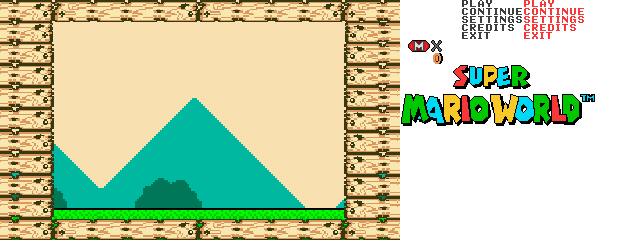
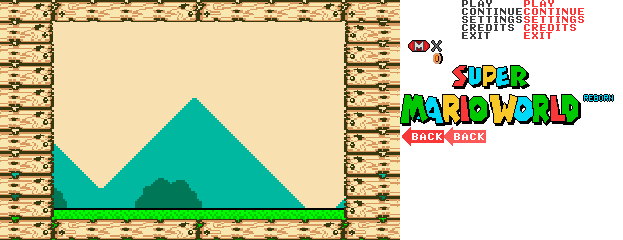
sample credits and back button

Changed region(s): [[0.6404, 0.2625, 1.0, 0.6125]]

diff --git a/Project/Motor2D/j1Gui.cpp b/Project/Motor2D/j1Gui.cpp
@@ -50,16 +50,22 @@ bool j1Gui::Start()
 	atlas = App->tex->Load(atlas_file_name.GetString());
 	App->audio->PlayMusic("audio/title_theme.ogg");
 
-	CreateImage(0, 0, { 0,0,400,240 });//main screen
-	CreateButton(185, 120, { 400, 0, 30, 7 }, { 462, 0, 30, 7 }, { 524, 0, 30, 7 }, PLAY, (j1Module*)App->gui);//play
-	CreateButton(169, 135, { 400, 8, 60, 7 }, { 462, 8, 60, 7 }, { 524, 8, 60, 7 }, CONTINUE, (j1Module*)App->scene);//continue
-	CreateButton(169, 150, { 400, 16, 60, 7 }, { 462, 16, 60, 7 }, { 524, 16, 60, 7 }, SETTINGS, (j1Module*)App->gui);//settings
-	CreateButton(173, 165, { 400, 24, 52, 7 }, { 462, 24, 52, 7 }, { 524, 24, 52, 7 }, CREDITS, (j1Module*)App->gui);//credits
-	CreateButton(186, 180, { 400, 32, 28, 7 }, { 462, 32, 28, 7 }, { 524, 32, 28, 7 }, EXIT, (j1Module*)App->scene);//exit
+	//main menu
+	CreateImage(0, 0, { 0,0,400,240 }, OTHER);//main screen
+	CreateImage(105, 35, { 400, 65, 214, 61 }, MAINMENU);//super mario world
+	CreateButton(185, 120, { 400, 0, 30, 7 }, { 462, 0, 30, 7 }, { 524, 0, 30, 7 }, PLAY, MAINMENU, (j1Module*)App->gui);//play
+	CreateButton(169, 135, { 400, 8, 60, 7 }, { 462, 8, 60, 7 }, { 524, 8, 60, 7 }, CONTINUE, MAINMENU, (j1Module*)App->scene);//continue
+	CreateButton(169, 150, { 400, 16, 60, 7 }, { 462, 16, 60, 7 }, { 524, 16, 60, 7 }, SETTINGS, MAINMENU, (j1Module*)App->gui);//settings
+	CreateButton(173, 165, { 400, 24, 52, 7 }, { 462, 24, 52, 7 }, { 524, 24, 52, 7 }, CREDITS, MAINMENU, (j1Module*)App->gui);//credits
+	CreateButton(186, 180, { 400, 32, 28, 7 }, { 462, 32, 28, 7 }, { 524, 32, 28, 7 }, EXIT, MAINMENU, (j1Module*)App->scene);//exit
 
-	//text
-
-	CreateText(60, 40, "I DID IT LOL", { 50, 50, 255, 255 }, App->fonts->default);
+	//credits menu
+	CreateButton(288, 32, { 400, 127, 44, 19 }, { 444, 127, 44, 19 }, { 444, 127, 44, 19 }, BACK, CREDITSMENU, (j1Module*)App->gui);//credditsback
+	CreateText(60, 40, "LOOK AT THESE CREDITS", { 50, 50, 255, 255 }, App->fonts->default, CREDITSMENU);
+	CreateText(60, 55, "WOW SUCH CREDITS", { 50, 50, 255, 255 }, App->fonts->default, CREDITSMENU);
+	CreateText(60, 70, "AMAZING CREDITS", { 50, 50, 255, 255 }, App->fonts->default, CREDITSMENU);
+	CreateText(60, 85, "UNBELIEVEABLE CREDITS", { 50, 50, 255, 255 }, App->fonts->default, CREDITSMENU);
+	CreateText(60, 100, "even  with  lowercase  wow", { 50, 50, 255, 255 }, App->fonts->default, CREDITSMENU);
 
 	return true;
 }
@@ -114,30 +120,30 @@ SDL_Texture* j1Gui::GetAtlas() const
 	return atlas;
 }
 
-GuiElement* j1Gui::CreateImage(int x, int y, SDL_Rect rect)
+GuiElement* j1Gui::CreateImage(int x, int y, SDL_Rect rect, menu_type mtype)
 {
 	iPoint position = { x,y };
-	GuiElement* item = new GuiImage(position, rect);
+	GuiElement* item = new GuiImage(position, rect, mtype);
 
 	elements.add(item);
 
 	return item;
 }
 
-GuiElement* j1Gui::CreateButton(int x, int y, SDL_Rect rect, SDL_Rect mover, SDL_Rect pressed, button_type btype, j1Module* callback)
+GuiElement* j1Gui::CreateButton(int x, int y, SDL_Rect rect, SDL_Rect mover, SDL_Rect pressed, button_type btype, menu_type mtype, j1Module* callback)
 {
 	iPoint position = { x,y };
-	GuiElement* item = new GuiButton(position, rect, mover, pressed, btype, callback);
+	GuiElement* item = new GuiButton(position, rect, mover, pressed, btype, mtype, callback);
 
 	elements.add(item);
 
 	return item;
 }
 
-GuiElement* j1Gui::CreateText(int x, int y, char* string, SDL_Color color, _TTF_Font* font)
+GuiElement* j1Gui::CreateText(int x, int y, char* string, SDL_Color color, _TTF_Font* font, menu_type mtype)
 {
 	iPoint position = { x,y };
-	GuiElement* item = new GuiText(position, string, color, font);
+	GuiElement* item = new GuiText(position, string, color, font, mtype);
 
 	elements.add(item);
 
@@ -204,13 +210,13 @@ bool j1Gui::GuiTrigger(GuiElement* element)
 		p2List_item<GuiElement*>* item = elements.start;
 		while (item != NULL)
 		{
-			if (item->data->etype == BUTTON)
+			if (item->data->mtype != SETTINGSMENU)
 			{
-				GuiButton* button2 = (GuiButton*)item->data;
-				if (button2->btype == PLAY || button2->btype == CONTINUE || button2->btype == SETTINGS || button2->btype == CREDITS || button2->btype == EXIT)
-				{
-					button2->active = false;
-				}
+				item->data->active = false;
+			}
+			else if (item->data->mtype == SETTINGSMENU)
+			{
+				item->data->active = true;
 			}
 			item = item->next;
 		}
@@ -223,15 +229,41 @@ bool j1Gui::GuiTrigger(GuiElement* element)
 		p2List_item<GuiElement*>* item = elements.start;
 		while (item != NULL)
 		{
-			if (item->data->etype == BUTTON)
+			if (item->data->mtype != CREDITSMENU && item->data->mtype != OTHER)
 			{
-				GuiButton* button2 = (GuiButton*)item->data;
-				if (button2->btype == PLAY || button2->btype == CONTINUE || button2->btype == SETTINGS || button2->btype == CREDITS || button2->btype == EXIT)
-				{
-					button2->active = false;
-				}
+				item->data->active = false;
+			}
+			else if (item->data->mtype == CREDITSMENU)
+			{
+				item->data->active = true;
 			}
 			item = item->next;
+		}
+
+		break;
+	}
+
+	case BACK:
+	{
+		switch (button->mtype)
+		{
+		case CREDITSMENU:
+		{
+			p2List_item<GuiElement*>* item = elements.start;
+			while (item != NULL)
+			{
+				if (item->data->mtype == MAINMENU || item->data->mtype == OTHER)
+				{
+					item->data->active = true;
+				}
+				else if (item->data->mtype == CREDITSMENU)
+				{
+					item->data->active = false;
+				}
+				item = item->next;
+			}
+			break;
+		}
 		}
 
 		break;

diff --git a/Project/Motor2D/j1Gui.h b/Project/Motor2D/j1Gui.h
@@ -10,6 +10,7 @@
 
 struct SDL_Rect;
 struct SDL_Texture;
+enum menu_type;
 class GuiElement;
 
 enum button_type
@@ -51,11 +52,11 @@ public:
 
 	bool GuiTrigger(GuiElement* element);
 
-	GuiElement* CreateImage(int x, int y, SDL_Rect rect);
+	GuiElement* CreateImage(int x, int y, SDL_Rect rect, menu_type mtype);
 
-	GuiElement* CreateButton(int x, int y, SDL_Rect rect, SDL_Rect mover, SDL_Rect pressed, button_type btype, j1Module* callback);
+	GuiElement* CreateButton(int x, int y, SDL_Rect rect, SDL_Rect mover, SDL_Rect pressed, button_type btype, menu_type mtype, j1Module* callback);
 
-	GuiElement* CreateText(int x, int y, char* string, SDL_Color color, _TTF_Font* font);
+	GuiElement* CreateText(int x, int y, char* string, SDL_Color color, _TTF_Font* font, menu_type mtype);
 
 	void DeleteElement(GuiElement* element);
 

diff --git a/Project/Motor2D/GuiButton.cpp b/Project/Motor2D/GuiButton.cpp
@@ -3,15 +3,24 @@
 
 GuiButton::GuiButton() {};
 
-GuiButton::GuiButton(iPoint position, SDL_Rect rect, SDL_Rect mover, SDL_Rect pressed, button_type btype, j1Module* callback)
+GuiButton::GuiButton(iPoint position, SDL_Rect rect, SDL_Rect mover, SDL_Rect pressed, button_type btype, menu_type mtype, j1Module* callback)
 {
 	this->position = position;
 	this->rect = rect;
 	this->mover = mover;
 	this->pressed = pressed;
 	this->btype = btype;
-	active = true;
+	this->mtype = mtype;
 	this->callback = callback;
+
+	if (mtype == MAINMENU || mtype == OTHER)
+	{
+		active = true;
+	}
+	else
+	{
+		active = false;
+	}
 
 	etype = BUTTON;
 }
@@ -41,7 +50,6 @@ void GuiButton::OnClick()
 {
 	if (mouseover == true && active == true)
 	{
-		selected = true;
 		callback->GuiTrigger(this);
 	}
 	return;

diff --git a/Project/Motor2D/GuiText.cpp b/Project/Motor2D/GuiText.cpp
@@ -5,12 +5,21 @@
 
 GuiText::GuiText() {};
 
-GuiText::GuiText(iPoint position, char* string, SDL_Color color, _TTF_Font* font)
+GuiText::GuiText(iPoint position, char* string, SDL_Color color, _TTF_Font* font, menu_type mtype)
 {
 	this->position = position;
 	this->string = string;
 	this->color = color;
-	active = true;
+	this->mtype = mtype;
+	
+	if (mtype == MAINMENU || mtype == OTHER)
+	{
+		active = true;
+	}
+	else
+	{
+		active = false;
+	}
 
 	text = App->tex->textures.add(App->fonts->Print(string, color, font))->data;
 

diff --git a/Project/Motor2D/GuiImage.cpp b/Project/Motor2D/GuiImage.cpp
@@ -3,12 +3,22 @@
 
 GuiImage::GuiImage() {};
 
-GuiImage::GuiImage(iPoint position, SDL_Rect rect)
+GuiImage::GuiImage(iPoint position, SDL_Rect rect, menu_type mtype)
 {
 	this->position = position;
 	this->rect = rect;
+	this->mtype = mtype;
+	
+	if (mtype == MAINMENU || mtype == OTHER)
+	{
+		active = true;
+	}
+	else
+	{
+		active = false;
+	}
+
 	etype = IMAGE;
-	active = true;
 }
 
 GuiImage::~GuiImage() {};

diff --git a/Project/Motor2D/GuiButton.h b/Project/Motor2D/GuiButton.h
@@ -15,7 +15,7 @@ class GuiButton : public GuiElement
 public:
 
 	GuiButton();
-	GuiButton(iPoint position, SDL_Rect rect, SDL_Rect mover, SDL_Rect pressed, button_type btype, j1Module* callback);
+	GuiButton(iPoint position, SDL_Rect rect, SDL_Rect mover, SDL_Rect pressed, button_type btype, menu_type mtype, j1Module* callback);
 	~GuiButton();
 
 	void Draw();

diff --git a/Project/Motor2D/GuiElement.h b/Project/Motor2D/GuiElement.h
@@ -18,6 +18,14 @@ enum element_type
 	EMPTY
 };
 
+enum menu_type
+{
+	MAINMENU,
+	SETTINGSMENU,
+	CREDITSMENU,
+	OTHER
+};
+
 class GuiElement
 {
 public:
@@ -36,6 +44,7 @@ public:
 public:
 
 	element_type etype = EMPTY;
+	menu_type mtype = OTHER;
 
 	iPoint position;
 	bool mouseover;

diff --git a/Project/Motor2D/GuiText.h b/Project/Motor2D/GuiText.h
@@ -11,7 +11,7 @@ class GuiText : public GuiElement
 public:
 
 	GuiText();
-	GuiText(iPoint position, char* string, SDL_Color color, _TTF_Font* font);
+	GuiText(iPoint position, char* string, SDL_Color color, _TTF_Font* font, menu_type mtype);
 	~GuiText();
 
 	void Draw();

diff --git a/Project/Motor2D/GuiImage.h b/Project/Motor2D/GuiImage.h
@@ -12,7 +12,7 @@ class GuiImage : public GuiElement
 public:
 
 	GuiImage();
-	GuiImage(iPoint position, SDL_Rect rect);
+	GuiImage(iPoint position, SDL_Rect rect, menu_type mtype);
 	~GuiImage();
 
 	void Draw();

diff --git a/Project/Motor2D/Boo.h b/Project/Motor2D/Boo.h
@@ -78,6 +78,6 @@ private:
 
 	//pathfinding timer
 	float						pathfind_timer = 0;
-	bool						boo_chase = true;
+	bool						boo_chase = false;
 	
 };
